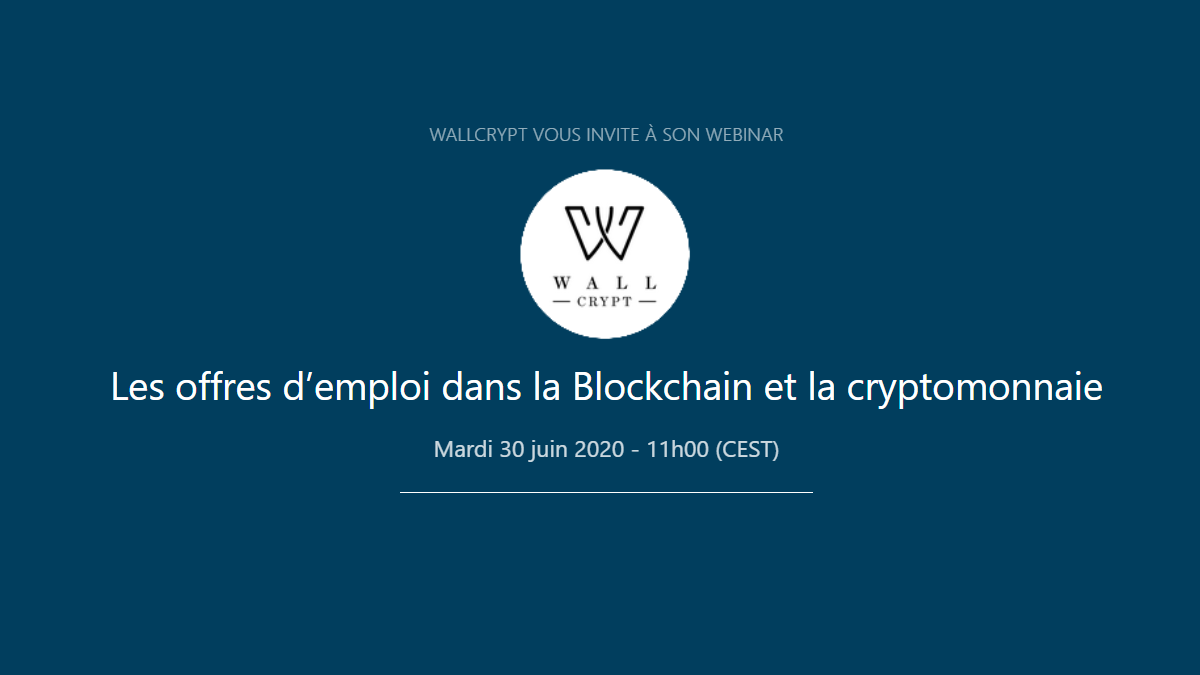
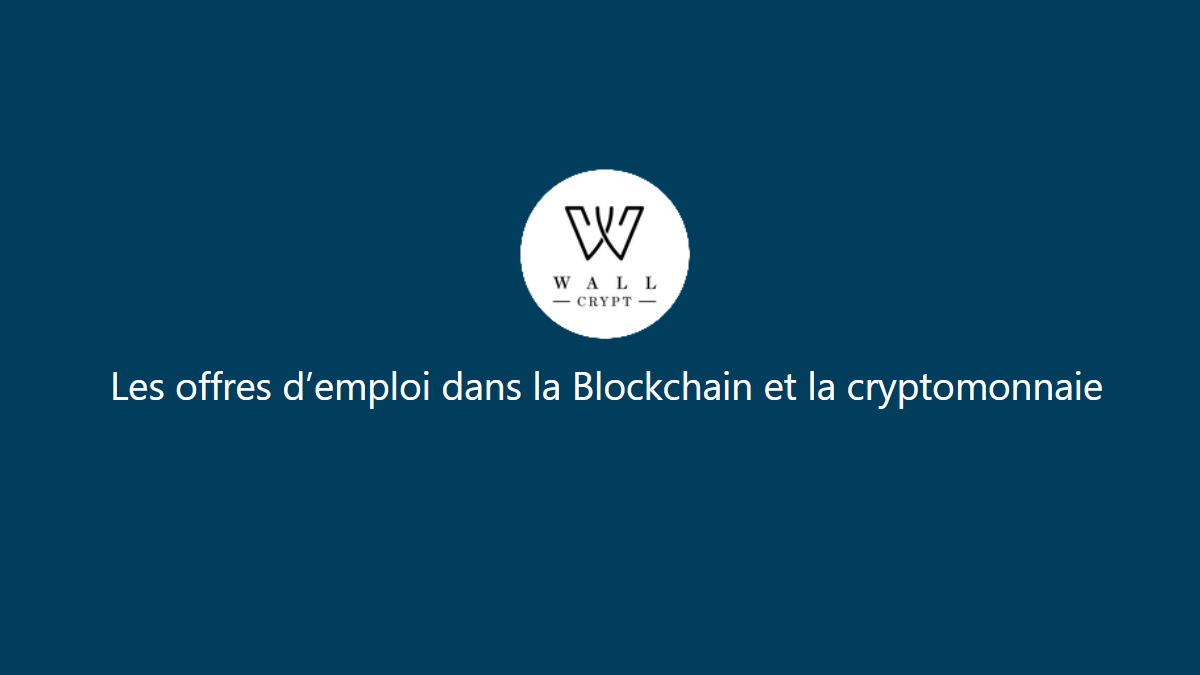
Add article

Changed region(s): [[0.3392, 0.6533, 0.6475, 0.6844], [0.3392, 0.1867, 0.6475, 0.2178]]

diff --git a/assets/css/theme.css b/assets/css/theme.css
@@ -318,7 +318,8 @@ span.post-name a,span.post-read-more a:hover {
 	font-family:Georgia;
 }
 .mainheading h1.posttitle {
-	font-weight:700;
+    font-weight:700;
+    font-size: 2.5rem;
 	margin-bottom:1rem;
 }
 .intro {

diff --git a/_posts/2020-07-07-comment-la-technologie-blockchain-peut-elle-ameliorer-le-processus-de-recrutement.md b/_posts/2020-07-07-comment-la-technologie-blockchain-peut-elle-ameliorer-le-processus-de-recrutement.md
@@ -1,0 +1,82 @@
+---
+layout: post-right-sidebar
+title:  "Comment la technologie Blockchain peut-elle améliorer le processus de recrutement ?"
+description: "Les Digital Credentials sont des attestations numériques délivrées par des organismes, comme par exemple des certifications, diplômes, papiers d’identité ou tout autre document ayant une valeur probante."
+author: steve
+categories: [ technologie ]
+image: assets/images/articles/comment-la-technologie-blockchain-peut-elle-ameliorer-le-processus-de-recrutement/1.jpg
+image_credential: ""
+featured: true
+---
+
+### Les Digital Credentials
+
+Les **Digital Credentials** sont des **attestations numériques** délivrées par des **organismes**, comme par exemple des certifications, diplômes, papiers d’identité ou tout autre **document ayant une valeur probante**. Ils se caractérisent par un **document émis par un organisme « de confiance », qui atteste des informations précises**. 
+
+Avec la transition numérique, il y a un réel besoin de **dématérialiser** ces attestations, tout en **garantissant leur authenticité**. En effet, les attestations sont des documents **fondamentaux dans la société** et peuvent avoir une **valeur marchande** et **sociale** importante. Ils sont donc sujets à de la **falsification et contrefaçon**. 
+
+Aujourd’hui, de nombreuses attestations sont dématérialisées et sauvegardées sur des **bases de données** gérées par l’organisme émetteur ou un partenaire, qui est donc **seul responsable de l’intégrité des données**. La base de données peut être **compromise** par différents moyens, ce qui **limite la fiabilité** des attestations. 
+
+### L’apport de la technologie Blockchain
+
+La technologie Blockchain, grâce à ses propriétés qui garantissent l’**immutabilité des données**, peut être utilisée pour **enregistrer ces Digital Credentials**. 
+
+Le principe est de **produire et d’enregistrer un identifiant unique** d’une attestation sur une chaine de blocs. Cet identifiant est directement lié aux **données qui caractérisent l’attestation** (émetteur, titulaire, objet, dates, etc.). Ainsi, tout le monde a la possibilité de **vérifier les informations** inscrites sur la Blockchain, et donc peut s’assurer qu’une attestation a bien été émise par un organisme reconnu et qu’elle est **authentique**.
+
+#### Fiabilité
+
+En effet, les données inscrites sur une Blockchain **ne peuvent pas être modifiées**; les attestations, une fois enregistrées, ne peuvent donc pas être **falsifiées**. Cette affirmation est vraie en partant bien sûr du principe que le réseau Blockchain est **assez solide** et que l’organisme émetteur est **le seul à détenir ses clés privées**, lui permettant de réaliser des transactions sur la Blockchain. 
+
+De même, les **applications tierces**, par exemple le site Internet qui permet de consulter une attestation, peuvent aussi être **sujettes à des failles**. C’est **tout le processus** qui doit **garantir la sécurité et l’intégrité des données**; la chaine de blocs ne fait pas tout.
+
+#### Praticité
+
+N’importe qui a la possibilité d’aller **vérifier** soi-même qu’une attestation est **bien présente et exacte** sur la Blockchain. Cela simplifie grandement les **processus pour obtenir des duplicatas** ou la **vérification de l’authenticité** d’une attestation. La **traçabilité** des certifications délivrées est aussi garantie. 
+
+Dans les faits, il faut tout de même **concevoir des outils et applications** qui permettent de **lire les données** de la Blockchain, puis de les afficher aux utilisateurs. 
+
+#### Confiance
+
+Bien entendu, l’**organisme** qui émet une attestation reste **le seul garant de l’authenticité** de celle-ci. Ce n’est pas parce qu’il y a une attestation sur une Blockchain que celle-ci est authentique. Il faut s’assurer que c’est bien **cet organisme** qui publie les Digital Credentials sur la Blockchain. La notion d’identité numérique est dans ce cas importante.
+
+Le **World Wide Web Consortium (W3C)** propose un standard pour mettre en place des **attestations numériques vérifiables** par tous, aussi appelées [Verifiable Credentials](https://www.w3.org/TR/vc-data-model/).
+
+Le W3C propose aussi un standard pour représenter des **identités numériques décentralisées**, les [Decentralized Identifiers](https://www.w3.org/TR/did-core/) (DIDs): 
+
+#### Niveau de décentralisation
+
+Les systèmes permettant d’émettre des Digital Credentials peuvent être implémentés sur **différents protocoles Blockchain**, qu’ils soient **privés, publics ou de consortium**. 
+
+Bien que les attestations doivent être publiées sur une Blockchain par un organisme reconnu, les avantages en termes de fiabilité et de confiance dépendent du **niveau de décentralisation et de gouvernance** du protocole Blockchain choisi. L’immutabilité des données inscrites sur une Blockchain est vraie seulement si celle-ci est **réellement décentralisée** entre différents acteurs indépendants, voire **ouverte à tous**. Sinon, autant utiliser une base de données distribuée classique. 
+
+#### Données personnelles
+
+Certaines attestations incluent des **données personnelles** qui **ne doivent pas être publiques**. Or, les données inscrites sur Blockchain sont accessibles à tous. Les solutions sur Blockchain **doivent respecter** le règlement général sur la protection des données (**RGPD**).
+
+Techniquement, cela peut se faire via un **chiffrement** des données, ou une **séparation des identifiants des attestations et leurs contenus**, de manière à ne pas publier de données personnelles sur la Blockchain (stockage off-chain). 
+
+#### Légalité
+
+En France, la loi n’est pas très précise sur la **valeur probante** des données sur une Blockchain. Techniquement, la valeur probante est garantie par des **signatures numériques** : 
+
+- [LegiFrance](https://www.legifrance.gouv.fr/affichTexte.do?cidTexte=JORFTEXT000000399095&categorieLien=id)
+- [Senat](https://www.senat.fr/lc/lc67/lc67_mono.html)
+
+Dans la pratique, de nombreux projets et entreprises utilisent déjà la technologie Blockchain pour publier et horodater des données (notarisation).
+
+### Les Applications
+
+De nombreuses entreprises et institutions travaillent sur la technologie Blockchain pour **notariser et certifier** des documents. Les applications sont nombreuses et variées, elles peuvent concerner des **documents d’identité**, des **diplômes universitaires** ou n’importe quel type d’attestation.  
+
+Dans le cas de diplômes universitaires, c'est tout le **processus de recrutement** qui bénéficierait des avantages de la certification Blockchain. Les diplômés auraient leurs certificats **disponibles universellement**, et pourraient le **prouver simplement** ; plus de risque de **perte de documents papier** ni de **démarches administratives** pour obtenir une copie. 
+Les recruteurs pourraient **vérifier l'authenticité** des diplômes de manière **automatisée**, ce qui aiderait dans la **lutte contre la falsification**. Les établissements universitaires, en délivrant des diplômes sur Blockchain, amelioreraient leur **image de marque** de manière **innovante**. 
+
+La certification sur Blockchain a donc de **nombreux avantages**, en permettant de **faciliter les procédures** et d'**améliorer la confiance** entre les différents acteurs.
+
+À l’avenir, c’est un cas d’usage qui sera certainement de plus en plus courant. Voici quelques projets concrets : 
+
+-	[BCDiploma](https://www.bcdiploma.com/index-fr.html): entreprise française qui propose une application pour certifier, sur la Blockchain publique **Ethereum**, les diplômes de l’enseignement supérieur. L’**EM Lyon** a été l’une des premières écoles à l’utiliser. 
+
+-	[ArkEducation](https://ark.io/): initiative française pour permettre la certification de diplômes universitaires sur une Blockchain **Ark**.
+
+-	[eSignature](https://ec.europa.eu/cefdigital/wiki/display/CEFDIGITAL/eSignature): projet de la Commission Européenne sur la mise en place de certification numérique sur la Blockchain **EBSI**.

diff --git a/_posts/2020-06-15-comment-travailler-dans-le-secteur-de-la-blockchain.md b/_posts/2020-06-15-comment-travailler-dans-le-secteur-de-la-blockchain.md
@@ -6,7 +6,7 @@ author: steve
 categories: [ economie ]
 image: assets/images/articles/comment-travailler-dans-le-secteur-de-la-blockchain-et-des-cryptomonnaies/1.png
 image_credential: ""
-featured: true
+featured: false
 ---
 
 ### Un secteur en pleine croissance
@@ -14,8 +14,6 @@ featured: true
 Le secteur Blockchain est en **pleine croissance** depuis 2015 ; **les offres d'emploi se multiplient**, tandis que **les profils spécialisés se font rares**.
 
 Vous êtes intéressés par les **opportunités** possibles dans le **secteur Blockchain** ? Wallcrypt propose un **séminaire gratuit** sur le sujet. 
-
-Le webinaire aura lieu le **mardi 30 juin 2020 à 11h00**. 
 
 ### Objectifs du séminaire
 
@@ -34,4 +32,5 @@ Voici le programme de la présentation :
 - Panorama des entreprises qui recrutent
 - Questions - réponses
 
-Vous pouvez dès maintenant vous inscrire au webinaire en suivant ce [lien](https://app.livestorm.co/wallcrypt/les-offres-emploi-dans-la-blockchain-et-la-cryptomonnaie). 
+La rediffusion de ce webinaire est disponible.
+<iframe width="560" height="315" src="https://www.youtube.com/embed/I3eadOjBfT4" frameborder="0" allow="accelerometer; autoplay; encrypted-media; gyroscope; picture-in-picture" allowfullscreen></iframe>
